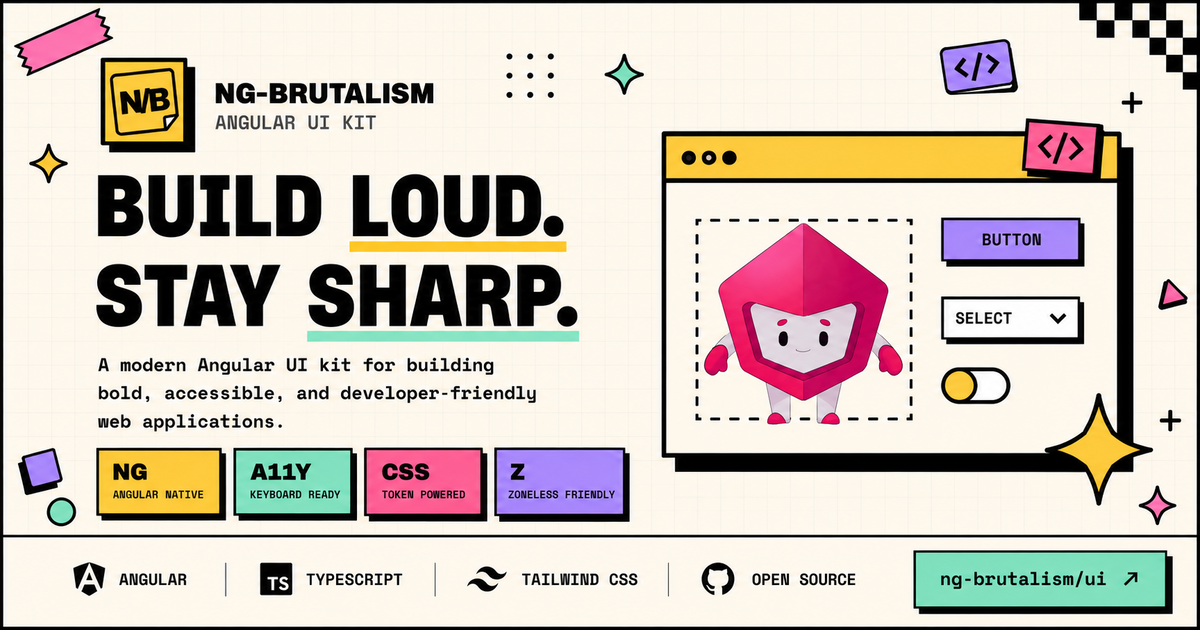
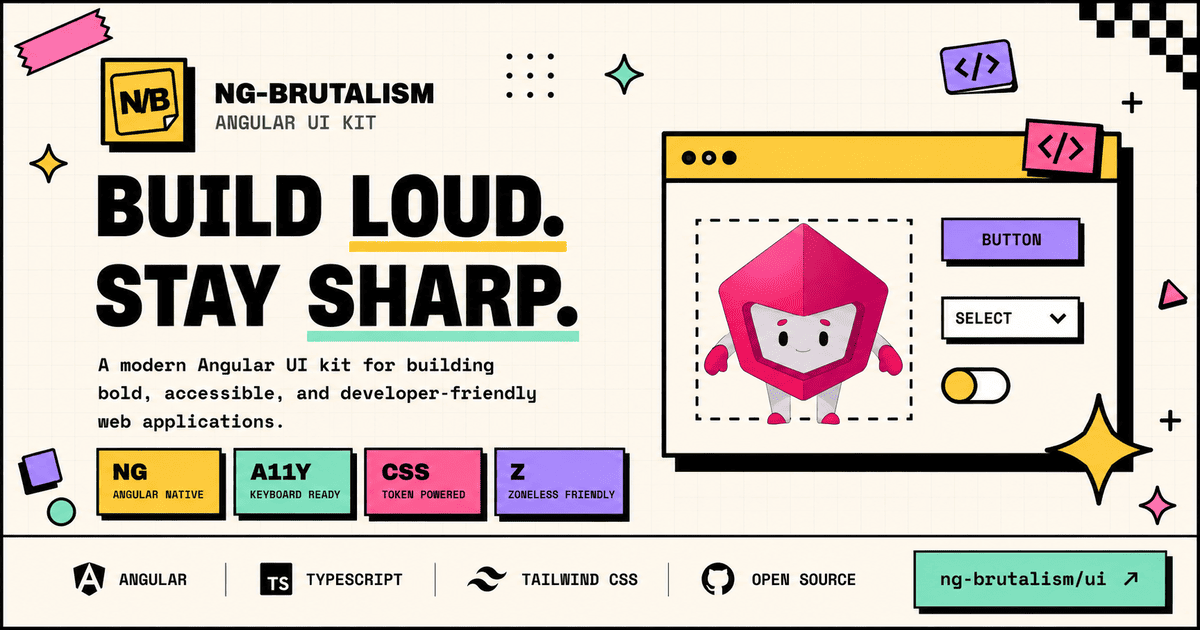
feat: update syntax highlighter and improve code block rendering in documentation

diff --git a/apps/docs/src/app/docs/syntax-highlighter.ts b/apps/docs/src/app/docs/syntax-highlighter.ts
@@ -1,4 +1,13 @@
-import { createHighlighter, type Highlighter } from 'shiki';
+import { createHighlighterCore, type HighlighterCore } from 'shiki/core';
+import { createJavaScriptRegexEngine } from 'shiki/engine/javascript';
+import angularHtml from 'shiki/dist/langs/angular-html.mjs';
+import angularTs from 'shiki/dist/langs/angular-ts.mjs';
+import bash from 'shiki/dist/langs/bash.mjs';
+import css from 'shiki/dist/langs/css.mjs';
+import html from 'shiki/dist/langs/html.mjs';
+import json from 'shiki/dist/langs/json.mjs';
+import typescript from 'shiki/dist/langs/typescript.mjs';
+import nord from 'shiki/dist/themes/nord.mjs';
 
 export type HighlightLanguage =
   | 'html'
@@ -6,31 +15,25 @@ export type HighlightLanguage =
   | 'angular-ts'
   | 'typescript'
   | 'ts'
-  | 'tsx'
   | 'bash'
   | 'shell'
   | 'json'
   | 'css';
 
 const THEME = 'nord';
-const LANGS: HighlightLanguage[] = [
-  'html',
-  'angular-html',
-  'angular-ts',
-  'typescript',
-  'tsx',
-  'bash',
-  'json',
-  'css',
-];
+const LANG_ALIASES: Partial<Record<HighlightLanguage, string>> = {
+  shell: 'bash',
+  ts: 'typescript',
+};
 
-let highlighterPromise: Promise<Highlighter> | null = null;
+let highlighterPromise: Promise<HighlighterCore> | null = null;
 
-function getHighlighter(): Promise<Highlighter> {
+function getHighlighter(): Promise<HighlighterCore> {
   if (!highlighterPromise) {
-    highlighterPromise = createHighlighter({
-      themes: [THEME],
-      langs: LANGS,
+    highlighterPromise = createHighlighterCore({
+      themes: [nord],
+      langs: [html, angularHtml, angularTs, typescript, bash, json, css],
+      engine: createJavaScriptRegexEngine(),
     });
   }
   return highlighterPromise;
@@ -42,7 +45,7 @@ export async function highlightCode(
 ): Promise<string> {
   const highlighter = await getHighlighter();
   return highlighter.codeToHtml(code, {
-    lang: language,
+    lang: LANG_ALIASES[language] ?? language,
     theme: THEME,
   });
 }

diff --git a/apps/docs/src/app/pages/(home).page.ts b/apps/docs/src/app/pages/(home).page.ts
@@ -2,12 +2,11 @@ import { ChangeDetectionStrategy, Component } from '@angular/core';
 import { RouterLink } from '@angular/router';
 import { NbButton } from '@ng-brutalism/ui';
 
-import { DocsCodeBlock } from '../docs/docs-code-block';
 import { NbDocsNavbar } from '../docs/layout/navbar';
 
 @Component({
   selector: 'docs-home-page',
-  imports: [DocsCodeBlock, NbButton, NbDocsNavbar, RouterLink],
+  imports: [NbButton, NbDocsNavbar, RouterLink],
   template: `
     <div class="relative min-h-screen overflow-x-clip">
       <span
@@ -152,6 +151,8 @@ import { NbDocsNavbar } from '../docs/layout/navbar';
                       width="488"
                       height="488"
                       alt="Animated Angular mascot for Ng Brutalism"
+                      fetchpriority="high"
+                      decoding="async"
                     />
                   </div>
                 </div>
@@ -210,7 +211,21 @@ import { NbDocsNavbar } from '../docs/layout/navbar';
                 configures Tailwind CSS v4, and adds the global stylesheet
                 import in one step.
               </p>
-              <docs-code-block title="Angular CLI" [code]="installCode" />
+              <div
+                class="border-4 border-(--nb-border) bg-black text-white shadow-[8px_8px_0_0_var(--nb-shadow)]"
+              >
+                <div
+                  class="flex h-11 items-center gap-2 border-b-2 border-white/20 bg-black px-4 font-mono text-xs font-black tracking-[0.12em] text-white/80 uppercase"
+                >
+                  <span class="inline-block size-2.5 rounded-full border border-white/40 bg-(--nb-pink)"></span>
+                  <span class="inline-block size-2.5 rounded-full border border-white/40 bg-(--nb-yellow)"></span>
+                  <span class="inline-block size-2.5 rounded-full border border-white/40 bg-(--nb-mint)"></span>
+                  <span class="ml-2">Angular CLI</span>
+                </div>
+                <pre
+                  class="m-0 overflow-x-auto px-5 py-5 font-mono text-sm leading-6 text-white"
+                ><code>ng add &#64;ng-brutalism/ui</code></pre>
+              </div>
               <p class="mt-4 text-sm font-medium">
                 Need manual setup or want to review each step?
                 <a
@@ -258,6 +273,4 @@ import { NbDocsNavbar } from '../docs/layout/navbar';
   `,
   changeDetection: ChangeDetectionStrategy.OnPush,
 })
-export default class HomePage {
-  protected readonly installCode = `ng add @ng-brutalism/ui`;
-}
+export default class HomePage {}

diff --git a/apps/docs/src/app/pages/showcase/portfolio/portfolio.page.scss b/apps/docs/src/app/pages/showcase/portfolio/portfolio.page.scss
@@ -55,6 +55,31 @@
   }
 }
 
+.portfolio-hero-portrait {
+  display: block;
+  flex: 0 0 auto;
+  width: 180px;
+  max-width: 100%;
+  aspect-ratio: 1081 / 1249;
+  background: url('/showcase/portfolio/khang.png') center / contain no-repeat;
+
+  @media (min-width: 640px) {
+    width: 220px;
+  }
+
+  @media (min-width: 768px) {
+    width: 300px;
+  }
+
+  @media (min-width: 1024px) {
+    width: 400px;
+  }
+
+  @media (min-width: 1280px) {
+    width: 450px;
+  }
+}
+
 .portfolio-skill-icon {
   width: clamp(1.5rem, 4vw, 2.5rem);
   height: clamp(1.5rem, 4vw, 2.5rem);

diff --git a/apps/docs/src/app/pages/showcase/portfolio/components/portfolio-hero.ts b/apps/docs/src/app/pages/showcase/portfolio/components/portfolio-hero.ts
@@ -4,7 +4,6 @@ import {
   computed,
   input,
 } from '@angular/core';
-import { NgOptimizedImage } from '@angular/common';
 import { toObservable, toSignal } from '@angular/core/rxjs-interop';
 import { NbButton, NbMarquee, NbMarqueeItem, NbTitle } from '@ng-brutalism/ui';
 import { scan, switchMap, takeWhile, timer } from 'rxjs';
@@ -23,7 +22,6 @@ import type { Skill } from '../portfolio.types';
         NbMarquee,
         NbMarqueeItem,
         NbTitle,
-        NgOptimizedImage,
         ContactUsDialog,
         DocsPortfolioGithubIcon,
         DocsPortfolioLinkedinIcon,
@@ -113,17 +111,20 @@ import type { Skill } from '../portfolio.types';
         </div>
 
         <div
+          ngNonBindable
           class="order-1 mt-2 flex w-full justify-center lg:order-2 lg:mt-0 lg:w-1/2 lg:justify-end"
         >
-          <img
-            class="h-auto w-auto max-w-[180px] sm:max-w-[220px] md:max-w-[300px] lg:max-w-[400px] xl:max-w-[450px]"
-            [ngSrc]="assetPath() + '/khang.png'"
-            width="1081"
-            height="1249"
-            priority
-            alt="Khang Tran"
-            decoding="async"
+          <link
+            rel="preload"
+            as="image"
+            href="/showcase/portfolio/khang.png"
+            fetchpriority="high"
           />
+          <div
+            class="portfolio-hero-portrait"
+            role="img"
+            aria-label="Khang Tran"
+          ></div>
         </div>
       </div>
 
@@ -159,7 +160,6 @@ import type { Skill } from '../portfolio.types';
     changeDetection: ChangeDetectionStrategy.OnPush
 })
 export class PortfolioHero {
-  readonly assetPath = input.required<string>();
   readonly greeting = input.required<string>();
   readonly isDark = input(false);
   readonly skills = input.required<Skill[]>();

diff --git a/apps/docs/src/shiki-dist.d.ts b/apps/docs/src/shiki-dist.d.ts
@@ -1,0 +1,13 @@
+declare module 'shiki/dist/langs/*.mjs' {
+  import type { LanguageInput } from 'shiki/core';
+
+  const language: LanguageInput;
+  export default language;
+}
+
+declare module 'shiki/dist/themes/*.mjs' {
+  import type { ThemeInput } from 'shiki/core';
+
+  const theme: ThemeInput;
+  export default theme;
+}

diff --git a/apps/docs/src/app/docs/docs-code-block.ts b/apps/docs/src/app/docs/docs-code-block.ts
@@ -16,7 +16,7 @@ import {
   DocsCodeExpandIcon,
   DocsCodeInfoIcon,
 } from './docs-code-block.icons';
-import { highlightCode, type HighlightLanguage } from './syntax-highlighter';
+import type { HighlightLanguage } from './syntax-highlighter';
 
 type DocsCodeBlockVariant = 'standalone' | 'embedded';
 
@@ -269,6 +269,7 @@ export class DocsCodeBlock {
     params: () => ({ code: this.code(), lang: this.resolvedLanguage() }),
     loader: async ({ params: { code, lang } }) => {
       if (!this.isBrowser) return null;
+      const { highlightCode } = await import('./syntax-highlighter');
       const html = await highlightCode(code, lang);
       return this.sanitizer.bypassSecurityTrustHtml(html);
     },

diff --git a/apps/docs/src/app/pages/showcase/portfolio/portfolio.page.html b/apps/docs/src/app/pages/showcase/portfolio/portfolio.page.html
@@ -20,7 +20,6 @@
 
     <main class="flex min-h-full flex-col">
       <docs-portfolio-hero
-        [assetPath]="assetPath"
         [greeting]="greeting()"
         [skills]="skills"
       />